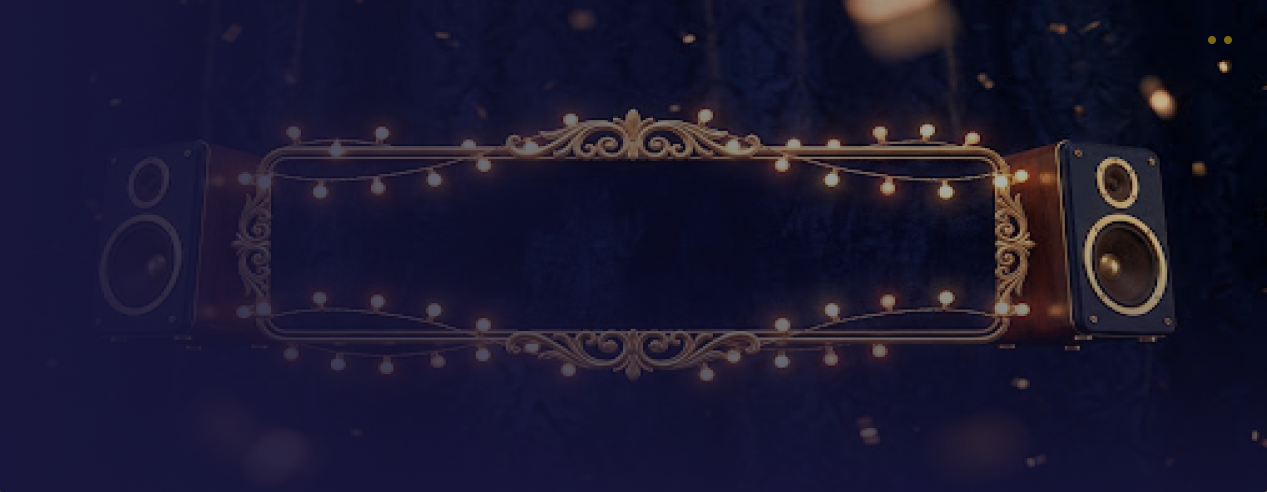
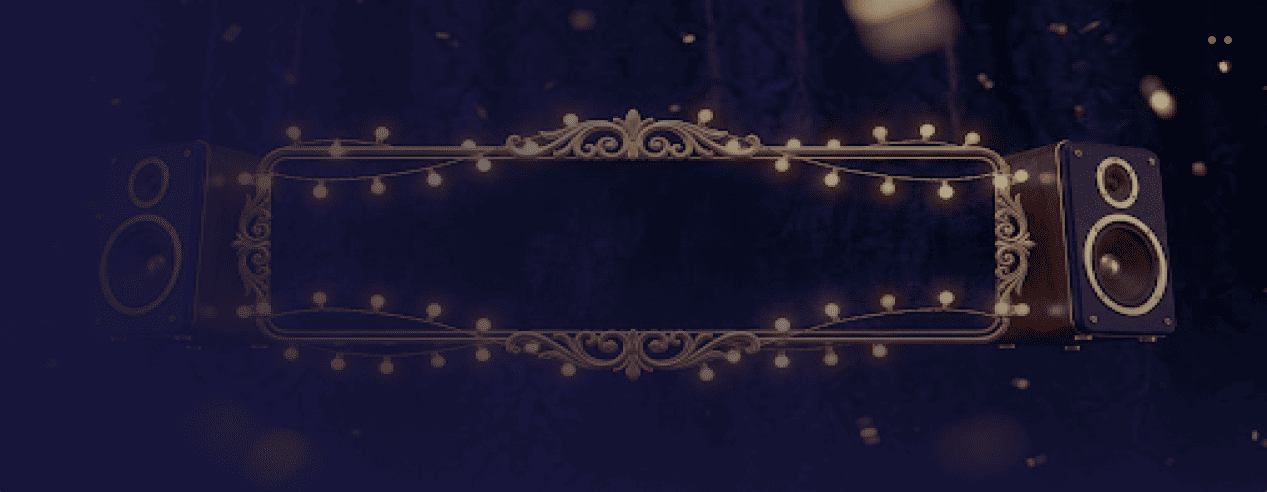
anjulottery-website 6/7/2026

diff --git a/index.html b/index.html
@@ -53,7 +53,7 @@
                         fill="#FACC15" />
                 </svg>
 
-                <p class="font-hanken text-[10px] sm:text-[11px] font-[650] tracking-[1.4px] uppercase text-[#FACC15]"
+                <p class="popup-ml font-hanken text-[10px] sm:text-[11px] font-[650] tracking-[1.4px] uppercase text-[#FACC15]"
                     data-key="popupTitle">
                     Welcome to Anju Lottery
                 </p>
@@ -61,14 +61,14 @@
             </div>
 
             <!-- Heading -->
-            <h2 class="popup-head relative z-10 font-libre text-[26px] sm:text-[30px] leading-[36px] font-[700] text-[#FFECB9] mb-4"
+            <h2 class="popup-ml popup-head relative z-10 font-libre text-[26px] sm:text-[30px] leading-[36px] font-[700] text-[#FFECB9] mb-4"
                 data-key="popupHead">
                 Your Trusted Kerala <br class="hidden sm:block">
                 Lottery Agency
             </h2>
 
             <!-- Description -->
-            <p class="feature relative z-10 font-hanken text-[14px] sm:text-[15px] leading-6 text-[#D1C6AB] mb-7"
+            <p class="popup-ml feature relative z-10 font-hanken text-[14px] sm:text-[15px] leading-6 text-[#D1C6AB] mb-7"
                 data-key="popupDesc">
 
                 Explore the latest Kerala Lottery tickets, bumper lotteries,
@@ -82,12 +82,12 @@
             <div class="relative z-10 flex flex-col sm:flex-row gap-3">
 
                 <!-- Change #tickets to your section id -->
-                <a href="#tickets" id="welcomeModalClaim" class="flex-1 text-center bg-[#FACC15]
+                <a href="#tickets" id="welcomeModalClaim" class="popup-ml flex-1 text-center bg-[#FACC15]
                 text-[#1E1B4B] font-hanken font-[700]
                 text-[11px] tracking-[1px] uppercase
                 px-5 py-3.5 rounded-[12px]
                 hover:bg-yellow-300
-                transition duration-300">
+                transition duration-300" data-key="btnName1">
 
                     View Tickets
 
@@ -105,7 +105,7 @@
                 rounded-[12px]
                 transition duration-300">
 
-                    Continue Browsing
+                    Continue
 
                 </button>
 
@@ -297,9 +297,9 @@ z-50">
 
                             <!-- View Daily Tickets Button -->
                             <a href="#tickets"
-                                class="w-fit bg-[#FACC15] text-[#6C5700] text-[12px] font-hanken font-[700] px-8 py-4 rounded-[12px] tracking-[1.2px] flex items-center gap-3 hover:scale-105 duration-300">
+                                class="w-fit bg-[#FACC15] text-[#6C5700] text-[12px] font-hanken font-[700] px-8 py-4 rounded-[12px] tracking-[0.4px] flex items-center gap-3 hover:scale-105 duration-300">
 
-                                <span>VIEW DAILY TICKETS</span>
+                                <span data-key="btnName">VIEW DAILY TICKETS</span>
 
                                 <svg width="16" height="16" viewBox="0 0 16 16" fill="none"
                                     xmlns="http://www.w3.org/2000/svg">
@@ -917,8 +917,8 @@ z-50">
                                 Bhagyadhara
                             </h3>
 
-                            <p class="text-[#D1C6AB] text-sm mt-2 font-hanken">
-                                Draw: 3:00 PM
+                           <p class="ticket-desc text-[#D1C6AB] text-sm mt-2 font-hanken" data-key="ticketDesc">
+                                Enquire Now for Ticket Availability
                             </p>
 
                             <!-- Status + Button -->
@@ -931,7 +931,7 @@ z-50">
 
                                     Collect Now
 
-                                    </button>
+                                </button>
 
                             </div>
 
@@ -972,8 +972,8 @@ z-50">
                                 Sthree Sakthi
                             </h3>
 
-                            <p class="text-[#D1C6AB] text-sm mt-2 font-hanken">
-                                Draw: 3:00 PM
+                         <p class="ticket-desc text-[#D1C6AB] text-sm mt-2 font-hanken" data-key="ticketDesc">
+                                Enquire Now for Ticket Availability
                             </p>
 
                             <!-- Status + Button -->
@@ -986,7 +986,7 @@ z-50">
 
                                     Collect Now
 
-                                    </button>
+                                </button>
 
                             </div>
 
@@ -1028,8 +1028,8 @@ z-50">
                                 Dhanalakshmi
                             </h3>
 
-                            <p class="text-[#D1C6AB] text-sm mt-2 font-hanken">
-                                Draw: 3:00 PM
+                           <p class="ticket-desc text-[#D1C6AB] text-sm mt-2 font-hanken" data-key="ticketDesc">
+                                Enquire Now for Ticket Availability
                             </p>
 
                             <!-- Status + Button -->
@@ -1042,7 +1042,7 @@ z-50">
 
                                     Collect Now
 
-                                    </button>
+                                </button>
 
                             </div>
 
@@ -1084,8 +1084,8 @@ z-50">
                                 Karunya Plus
                             </h3>
 
-                            <p class="text-[#D1C6AB] text-sm mt-2 font-hanken">
-                                Draw: 3:00 PM
+                           <p class="ticket-desc text-[#D1C6AB] text-sm mt-2 font-hanken" data-key="ticketDesc">
+                                Enquire Now for Ticket Availability
                             </p>
 
                             <!-- Status + Button -->
@@ -1098,7 +1098,7 @@ z-50">
 
                                     Collect Now
 
-                                    </button>
+                                </button>
 
                             </div>
 

diff --git a/js/language.js b/js/language.js
@@ -1,3 +1,25 @@
+async function loadPopupMalayalam() {
+    try {
+        const response = await fetch("lang/ml.json");
+        const translations = await response.json();
+
+        document.querySelectorAll(".popup-ml").forEach((element) => {
+            const key = element.dataset.key;
+
+            if (translations[key]) {
+                element.textContent = translations[key];
+            }
+        });
+
+    } catch (error) {
+        console.error("Popup translation error:", error);
+    }
+}
+
+
+
+
+
 async function loadMalayalam() {
     try {
         const response = await fetch("lang/ml.json");
@@ -6,8 +28,8 @@ async function loadMalayalam() {
         // =========================
         // 1. data-key SYSTEM
         // =========================
-        document.querySelectorAll("[data-key]").forEach((element) => {
-            const key = element.dataset.key;
+document.querySelectorAll("[data-key]:not(.popup-ml)").forEach((element) => {
+                const key = element.dataset.key;
 
             if (translations[key]) {
                 element.textContent = translations[key];
@@ -61,13 +83,16 @@ async function loadMalayalam() {
 
 window.addEventListener("DOMContentLoaded", () => {
 
+    // Popup always Malayalam
+    loadPopupMalayalam();
+
+    // Rest of website
     const savedLang = localStorage.getItem("language");
 
     if (savedLang === "ml") {
 
         document.documentElement.lang = "ml";
         loadMalayalam();
-
         document.getElementById("selectedLanguage").textContent = "മലയാളം";
 
     } else {

diff --git a/input.css b/input.css
@@ -94,7 +94,7 @@ html[lang="ml"] .location-text {
 
 @media (min-width: 1024px) {
     html[lang="ml"] .premium-Head {
-        font-size: 27px;
+        font-size: 23px;
     }
 }
 @media (min-width: 1024px) {
@@ -193,5 +193,10 @@ html[lang="ml"] .feature-desc {
     }
 }
 
+
+html[lang="ml"] .ticket-desc {
+    font-size: 9px;
+    line-height: 18px;
+}
 
 